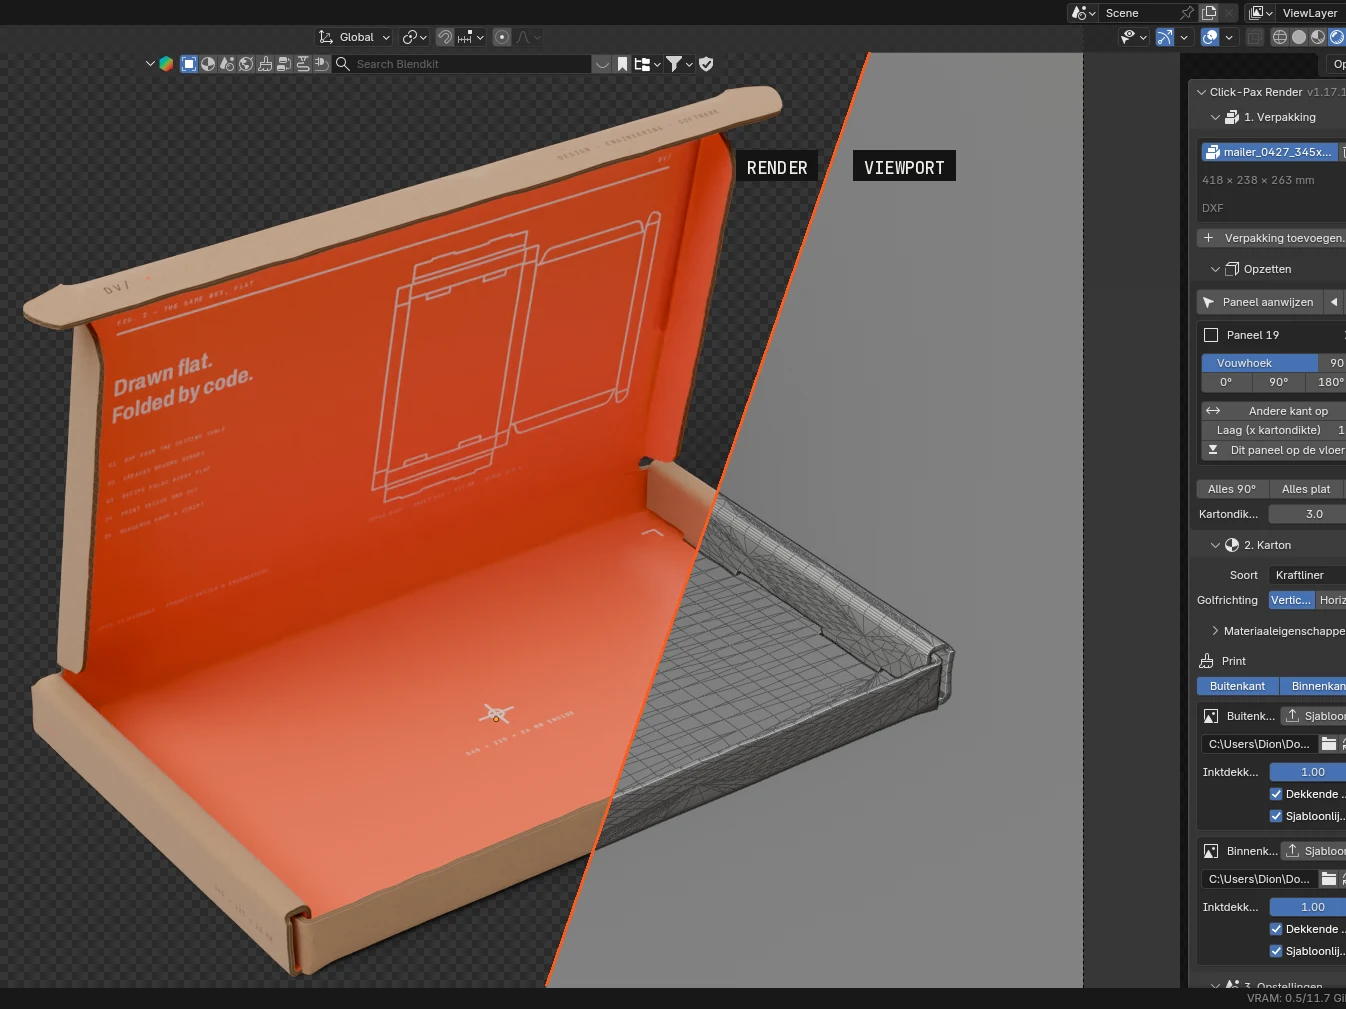
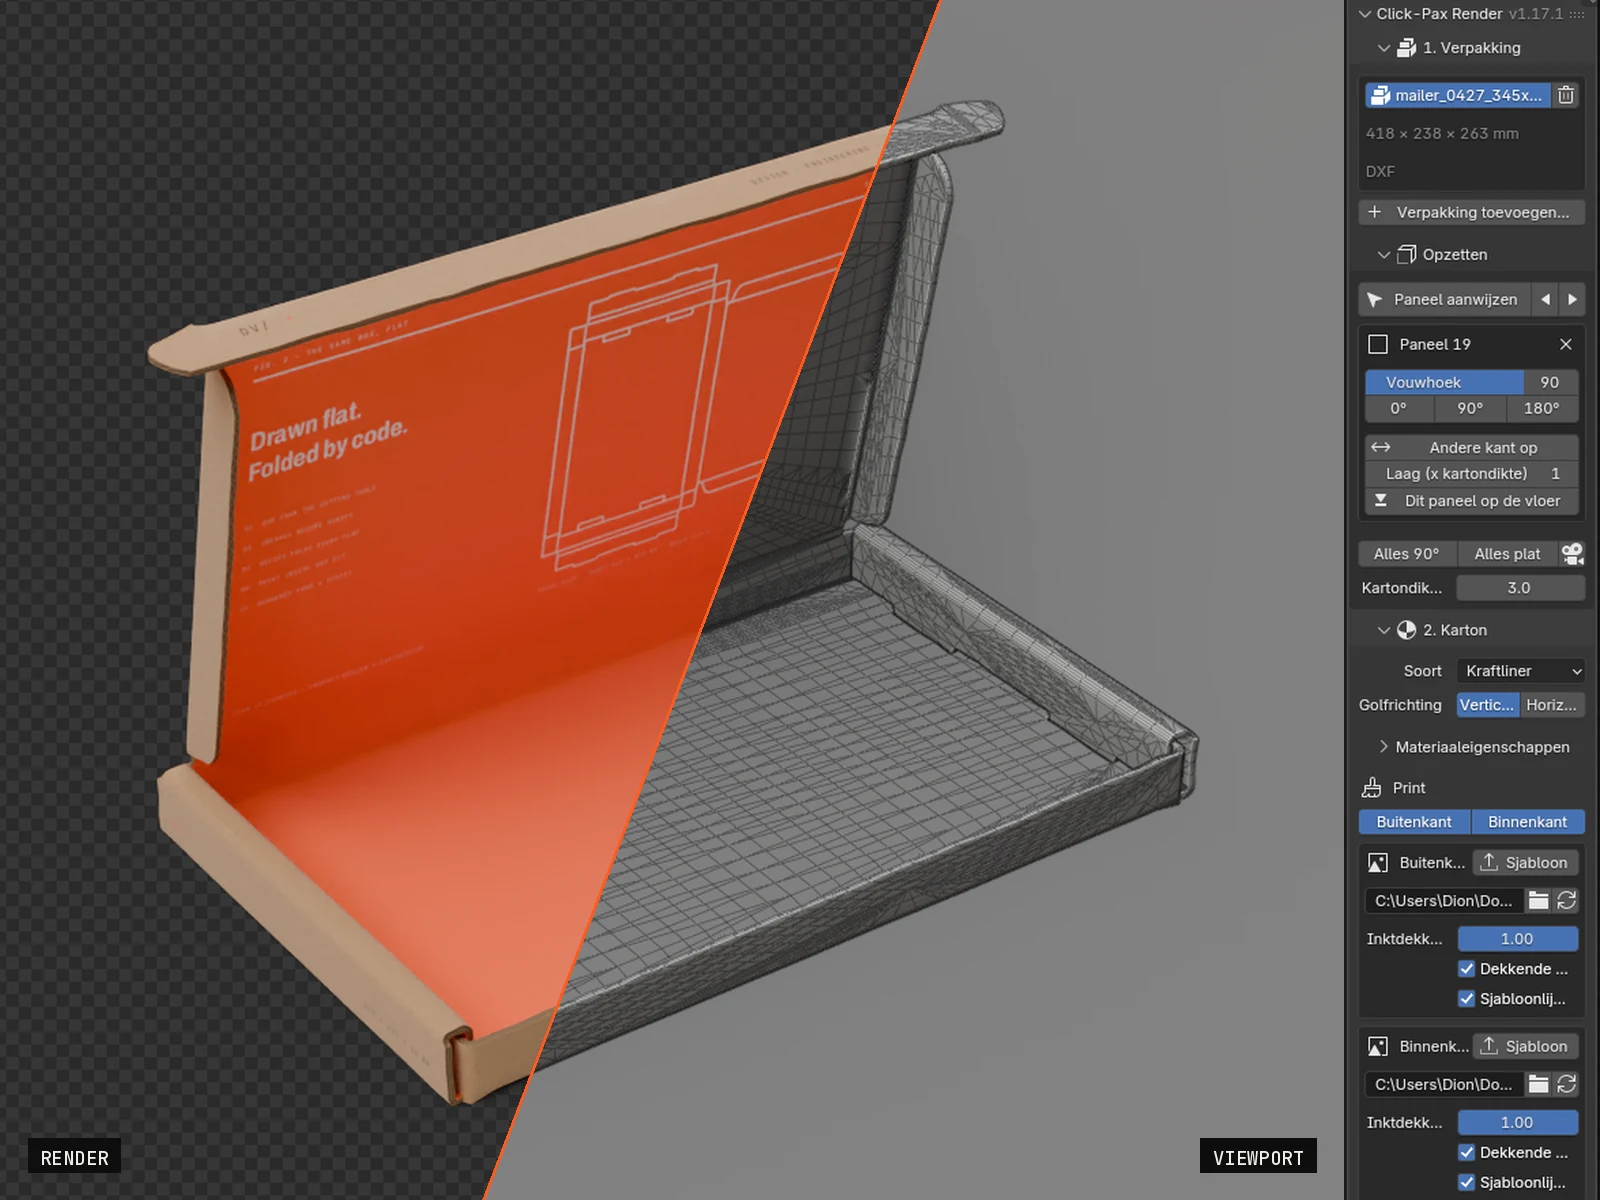
Click-Pax: schone Blender-beelden zonder selectie, kaart 4:3, cijferrij weg
Claude-Session: https://claude.ai/code/session_017GziBSnmyihzH48K5ibfB4

diff --git a/projects/click-pax.html b/projects/click-pax.html
@@ -54,13 +54,6 @@
         <div><span class="mono">Built with</span><b>Python · Blender · Next.js · AI</b></div>
       </div>
 
-      <div class="stats rv">
-        <div><b>6</b><span class="mono">tools in one chain, each with its own tests</span></div>
-        <div><b>1<small>click</small></b><span class="mono">from a request in the sales platform to a proposal PDF</span></div>
-        <div><b>≤0.5<small>mm</small></b><span class="mono">difference from ArtiosCAD drawings</span></div>
-        <div><b>2</b><span class="mono">Blender add-ons, both built from scratch</span></div>
-      </div>
-
       <!-- ===================== 01 THE CHAIN ===================== -->
       <section class="chapter" id="chain">
         <div class="sec-head rv"><h2>The chain</h2><span class="mono">01</span></div>
@@ -150,10 +143,12 @@
 
         <figure class="shot rv">
           <div class="shot-bar mono"><span><i></i><i></i><i></i></span><span>Blender 5.2 · Click-Pax Render v1.17.1</span></div>
-          <img src="/assets/projects/click-pax/r/blender-ui.webp" width="1600" height="933" alt="Blender viewport with the mailer open and the Click-Pax Render panel: panel 19 selected, fold angle 90, layer 1, print on outside and inside" loading="lazy" decoding="async">
-          <span class="pin mono" style="left:88.5%;top:29%">A</span>
-          <span class="pin mono" style="left:88.5%;top:45%">B</span>
-          <span class="pin mono" style="left:88.5%;top:70%">C</span>
+          <div class="shot-img">
+            <img src="/assets/projects/click-pax/r/blender-ui.webp" width="1600" height="1200" alt="Blender viewport with the mailer open and the Click-Pax Render panel: panel 19, fold angle 90, layer 1, print on outside and inside" loading="lazy" decoding="async">
+            <span class="pin mono" style="left:83%;top:24.8%">A</span>
+            <span class="pin mono" style="left:83%;top:39.3%">B</span>
+            <span class="pin mono" style="left:83%;top:68.3%">C</span>
+          </div>
         </figure>
         <ol class="pins mono">
           <li><b>A</b> Pick a panel in the viewport, set its fold angle. Everything attached follows.</li>

diff --git a/index.html b/index.html
@@ -63,7 +63,7 @@
         </div>
 
         <a class="feature rv" href="/projects/click-pax">
-          <div class="img img-render"><img src="/assets/projects/click-pax/r/card-blender.webp" alt="The mailer in Blender with the Click-Pax Render panel: on the left the folded model in the viewport, on the right the final render" width="1346" height="1009" loading="lazy" decoding="async"></div>
+          <div class="img img-render"><img src="/assets/projects/click-pax/r/card-blender.webp" alt="The mailer in Blender with the Click-Pax Render panel: on the left the final render, on the right the folded model in the viewport" width="1600" height="1200" loading="lazy" decoding="async"></div>
           <div class="txt">
             <div class="top"><span class="mono hot">01</span><span class="mono">Click-Pax · 2023 — now</span></div>
             <h3>From a customer request to a proposal, automatically</h3>

diff --git a/assets/projects/click-pax/click-pax.css b/assets/projects/click-pax/click-pax.css
@@ -1,4 +1,3 @@
-.stats b small { font-size: .45em; margin-left: 2px; }
 
 /* ---------- pipeline ---------- */
 .chain { margin-top: 40px; border: 1px solid var(--faint); }
@@ -104,6 +103,7 @@
 }
 .shot { margin-top: 56px; position: relative; border: 1px solid var(--faint); background: #1d1d1d; }
 .shot img { display: block; width: 100%; height: auto; }
+.shot-img { position: relative; }
 .shot-bar { display: flex; justify-content: space-between; align-items: center; padding: 9px 12px; border-bottom: 1px solid #2c2c2a; color: #8f8e89; }
 .shot-bar i { display: inline-block; width: 8px; height: 8px; border-radius: 50%; background: #3a3a38; margin-right: 6px; }
 .shot .pin {
